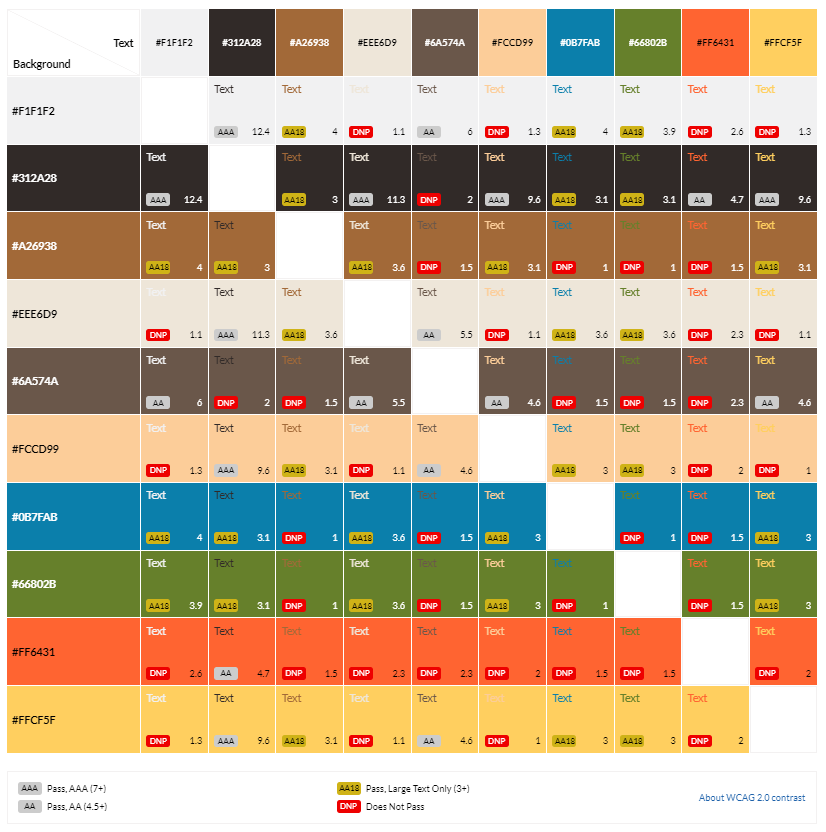
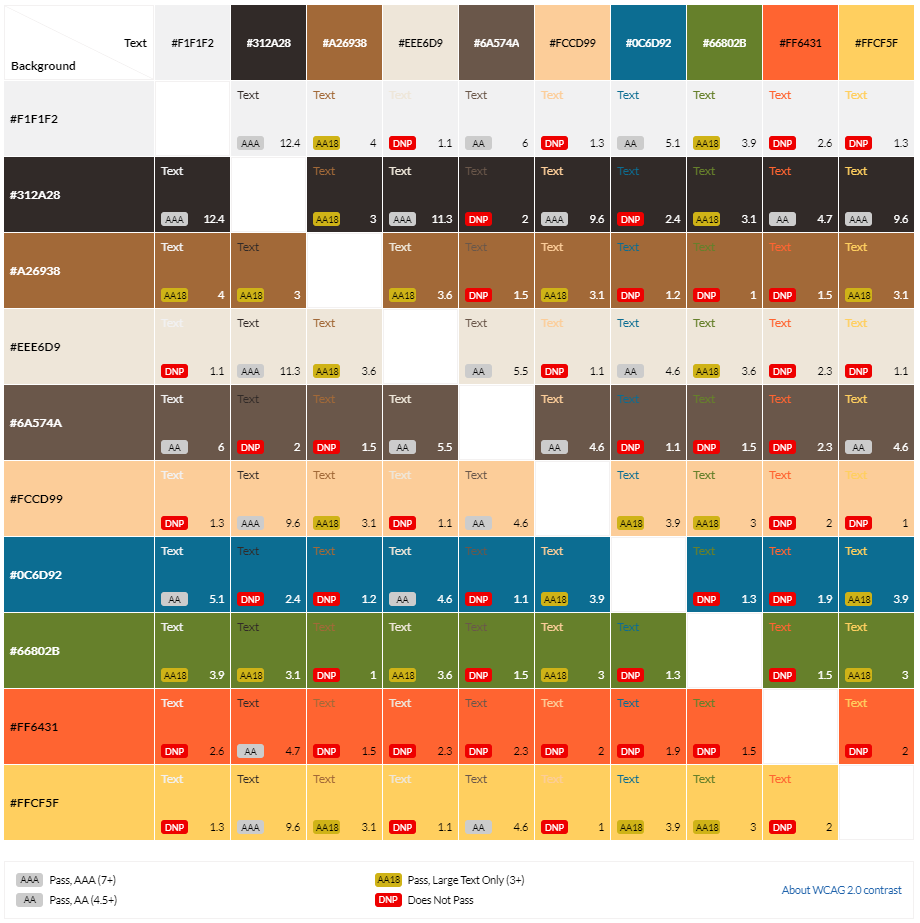
fix: slightly change the blue color variable for accessibility

Changed region(s): [[0.0, 0.0, 0.9988, 1.0], [0.0, 0.0625, 0.0908, 0.0938], [0.4237, 0.4062, 0.454, 0.4375]]

diff --git a/assets/css/style.css b/assets/css/style.css
@@ -13,7 +13,7 @@
     --beige: #eee6d9;
     --greybrown: #6a574a;
     --lightbrown: #fccf99;
-    --blue: #0b7fab;
+    --blue: #0c6d92;
     --green: #66802b;
     --orange: #ff6431;
     --yellow: #ffcf5f;

diff --git a/README.md b/README.md
@@ -56,7 +56,7 @@ I created wireframes to visualize my ideas using [Balsamiq](https://balsamiq.com
 
 ### **Color Scheme**
 
-To create the color scheme I started by looking for icons I could use as dog characters and treats. I picked out the main colors used for these icons and used [contrast-grid.eightshapes.com](https://contrast-grid.eightshapes.com/?version=1.1.0&background-colors=&foreground-colors=%23F1F1F2%0D%0A%23312A28%0D%0A%23A26938%0D%0A%23EEE6D9%0D%0A%236A574A%0D%0A%23FCCD99%0D%0A%230B7FAB%0D%0A%2366802B%0D%0A%23FF6431%0D%0A%23FFCF5F%0D%0A&es-color-form__tile-size=regular&es-color-form__show-contrast=aaa&es-color-form__show-contrast=aa&es-color-form__show-contrast=aa18&es-color-form__show-contrast=dnp) to check the contrast and possible color combinations.
+To create the color scheme I started by looking for icons I could use as dog characters and treats. I picked out the main colors used for these icons and used [contrast-grid.eightshapes.com](https://contrast-grid.eightshapes.com/?version=1.1.0&background-colors=&foreground-colors=%23F1F1F2%0D%0A%23312A28%0D%0A%23A26938%0D%0A%23EEE6D9%0D%0A%236A574A%0D%0A%23FCCD99%0D%0A%230c6d92%0D%0A%2366802B%0D%0A%23FF6431%0D%0A%0D%0A%23FFCF5F%0D%0A&es-color-form__tile-size=regular&es-color-form__show-contrast=aaa&es-color-form__show-contrast=aa&es-color-form__show-contrast=aa18&es-color-form__show-contrast=dnp) to check the contrast and possible color combinations.
 
 ![Color contrast](docs/screenshots/color_contrast.png)
 
